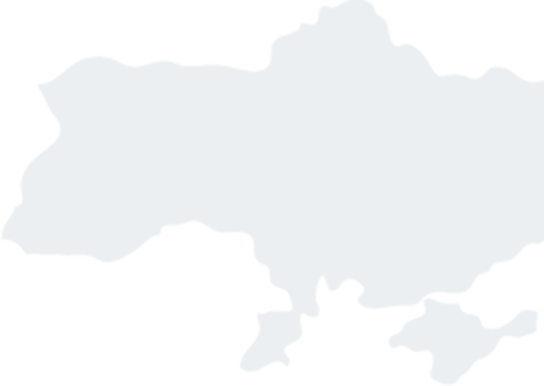
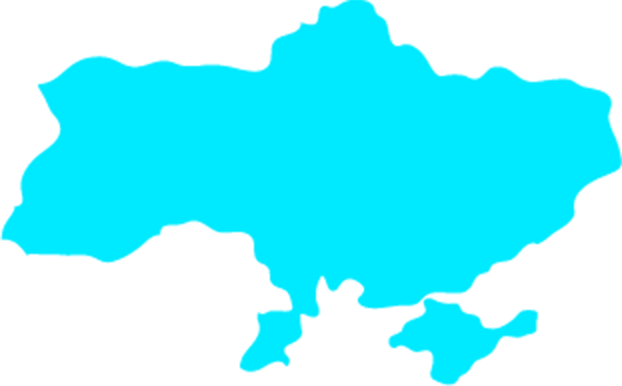
interest section jpg to png changed

diff --git a/build/css/styles.css b/build/css/styles.css
@@ -1,1 +1,1 @@
-/*! normalize.css v8.0.0 | MIT License | github.com/necolas/normalize.css */html{line-height:1.15;-webkit-text-size-adjust:100%}body{margin:0}h1{font-size:2em;margin:.67em 0}hr{box-sizing:content-box;height:0;overflow:visible}pre{font-family:monospace,monospace;font-size:1em}a{background-color:transparent}abbr[title]{border-bottom:none;text-decoration:underline;-webkit-text-decoration:underline dotted;text-decoration:underline dotted}b,strong{font-weight:bolder}code,kbd,samp{font-family:monospace,monospace;font-size:1em}small{font-size:80%}sub,sup{font-size:75%;line-height:0;position:relative;vertical-align:baseline}sub{bottom:-.25em}sup{top:-.5em}img{border-style:none}button,input,optgroup,select,textarea{font-family:inherit;font-size:100%;line-height:1.15;margin:0}button,input{overflow:visible}button,select{text-transform:none}[type=button],[type=reset],[type=submit],button{-webkit-appearance:button}[type=button]::-moz-focus-inner,[type=reset]::-moz-focus-inner,[type=submit]::-moz-focus-inner,button::-moz-focus-inner{border-style:none;padding:0}[type=button]:-moz-focusring,[type=reset]:-moz-focusring,[type=submit]:-moz-focusring,button:-moz-focusring{outline:1px dotted ButtonText}fieldset{padding:.35em .75em .625em}legend{box-sizing:border-box;color:inherit;display:table;max-width:100%;padding:0;white-space:normal}progress{vertical-align:baseline}textarea{overflow:auto}[type=checkbox],[type=radio]{box-sizing:border-box;padding:0}[type=number]::-webkit-inner-spin-button,[type=number]::-webkit-outer-spin-button{height:auto}[type=search]{-webkit-appearance:textfield;outline-offset:-2px}[type=search]::-webkit-search-decoration{-webkit-appearance:none}::-webkit-file-upload-button{-webkit-appearance:button;font:inherit}details{display:block}summary{display:list-item}[hidden],template{display:none}@font-face{font-family:Acrom;font-style:normal;font-weight:300;src:url(../fonts/Acrom-Light.woff) format("woff"),url(../fonts/Acrom-Light.woff2) format("woff2")}@font-face{font-family:Acrom;font-style:normal;font-weight:400;src:url(../fonts/Acrom-Regular.woff) format("woff"),url(../fonts/Acrom-Regular.woff2) format("woff2")}@font-face{font-family:Acrom;font-style:medium;font-weight:500;src:url(../fonts/Acrom-Medium.woff) format("woff"),url(../fonts/Acrom-Medium.woff2) format("woff2")}@font-face{font-family:Acrom;font-style:bold;font-weight:700;src:url(../fonts/Acrom-Bold.woff) format("woff"),url(../fonts/Acrom-Bold.woff2) format("woff2")}@font-face{font-family:Acrom;font-style:bold;font-weight:900;src:url(../fonts/Acrom-ExtraBold.woff) format("woff"),url(../fonts/Acrom-ExtraBold.woff2) format("woff2")}html{box-sizing:border-box}*,:after,:before{box-sizing:inherit}h1,h2,h3,h4,h5,h6{margin:0}ol,ul{list-style:none}a{text-decoration:none}img{display:block;max-width:100%;height:auto}body{font-family:-apple-system,BlinkMacSystemFont,Segoe UI,Roboto,Oxygen,Ubuntu,Cantarell,Open Sans,Helvetica Neue,sans-serif}.container{margin:0 auto;width:260px}.section__title{font-family:Acrom;font-weight:800;font-size:1.25rem;line-height:1.875rem;color:#1b202a;letter-spacing:-1.2px;width:100%}.interest{padding-top:1.875rem;padding-bottom:2.375rem}.interest__title{margin-bottom:1.5rem}.interest__market{display:-webkit-box;display:flex;flex-wrap:wrap;margin-bottom:1.75rem}.market__title{font-family:Acrom;font-weight:800;font-size:.875rem;line-height:1.25rem;color:#1b202a;letter-spacing:-.56px;padding:0;margin:0 0 1.25rem}.market__list{width:100%;margin:0 0 1.25rem;padding:0 17px}.market__list-item{font-weight:500}.market__income,.market__list-item{font-family:Acrom;font-size:.875rem;line-height:1.25rem;color:#1b202a;letter-spacing:-.56px}.market__income{font-weight:800;width:100%;margin:0 0 .625rem}.market__digits{font-family:Acrom;font-weight:700;font-size:1.875rem;line-height:2.25rem;color:#00eaff;letter-spacing:-1.2px;margin-bottom:.313rem;display:block}.market__income-wrapper{padding-left:1.063rem}.income__list{display:-webkit-box;display:flex;-webkit-box-pack:justify;justify-content:space-between;margin:0;padding:0}.income__list-item{font-family:Acrom;font-weight:500;font-size:.625rem;line-height:.688rem;color:#222;letter-spacing:-.4px;width:48%}.income__digits{font-family:Acrom;font-weight:700;font-size:1.563rem;line-height:1.563rem;color:#00eaff;letter-spacing:-1px;display:block;margin-bottom:.313rem}.proposal__title{margin-bottom:.75rem}.proposal__list{margin:0;padding:0}.proposal__list-item{font-family:Acrom;font-weight:500;font-size:.875rem;line-height:1.25rem;color:#1b202a;letter-spacing:-.56px;padding-left:2.25rem;position:relative;width:95%}.proposal__list-item:not(:last-child){margin-bottom:.625rem}.proposal__list-item:before{position:absolute;content:"";width:.75rem;height:.75rem;display:block;background-color:#00eaff;left:0;top:.188rem}@media (min-width:768px){.container{width:748px}.section__title{font-family:Acrom;font-weight:800;font-size:1.875rem;line-height:2.5rem;color:#1b202a;text-align:center}.interest{padding-top:3.5rem}.interest__title{margin-bottom:2.188rem}.market{width:93%;box-shadow:-18px 19px 0 0 rgba(27,32,42,.06),0 15px 32px 0 rgba(0,0,0,.2);margin:0 auto 3rem;background-image:url(../images/interest/map.jpg);background-repeat:no-repeat;background-position:80% 83%;padding:3.25rem 3.125rem 3.375rem 3.563rem}.market__title{font-family:Acrom;font-weight:800;font-size:1.125rem;line-height:1.563rem;color:#1b202a;letter-spacing:-.72px;text-align:center;margin:0 auto 1.875rem;width:65%}.market__list{display:-webkit-box;display:flex;flex-wrap:wrap;-webkit-box-pack:justify;justify-content:space-between;padding:0}.market__list-item{width:30%}.market__list-item:nth-child(-n+3){margin-bottom:1.75rem}.market__income{display:-webkit-box;display:flex;width:100%;padding:0;margin:0 0 .625rem}.market__digits{font-weight:500}.market__income-wrapper{width:41%;padding:0}.income__list{display:-webkit-box;display:flex;-webkit-box-pack:justify;justify-content:space-between}.income__list-item{padding:0;width:46%}.income__digits{font-weight:500}.proposal{width:83%;margin:0 auto}.proposal__title{margin-bottom:1.625rem}.proposal__list{width:65%}.proposal__list-item{font-family:Acrom;font-weight:500;font-size:1rem;line-height:1.375rem;color:#1b202a;letter-spacing:-.64px}}@media (min-width:768px) and (-webkit-min-device-pixel-ratio:2),(min-width:768px) and (min-resolution:2dppx),(min-width:768px) and (min-resolution:192dpi){.market{background-image:url(../images/interest/map@2x.jpg);background-size:45%}}@media (min-width:1200px){.container{width:1170px}.section__title{font-family:Acrom;font-weight:800;font-size:3rem;line-height:3.75rem;color:#1b202a;letter-spacing:-1.92px;text-align:left;padding-left:.938rem;width:40%}.interest{padding-top:5.938rem;padding-bottom:8.75rem}.interest__title{margin-bottom:4.375rem}.interest__wrapper{display:-webkit-box;display:flex;-webkit-box-pack:justify;justify-content:space-between;padding:0 15px}.market{width:60%;margin:0;background-position:81% 82%;display:block}.market__title{margin-bottom:2.375rem;width:67%}.market__list-item:nth-child(-n+3){margin-bottom:0}.proposal{width:35%;margin:0;padding-top:7.5rem}.proposal__title{width:100%;margin-bottom:2rem;padding:0}.proposal__list{width:100%}.proposal__list-item{font-family:Acrom;font-weight:500;font-size:1.125rem;line-height:1.25rem;color:#1b202a;letter-spacing:-.72px}}@media (min-width:1200px) and (-webkit-min-device-pixel-ratio:2),(min-width:1200px) and (min-resolution:2dppx),(min-width:1200px) and (min-resolution:192dpi){.market{background-image:url(../images/interest/map@2x.jpg);background-size:45%}}@media (max-width:767px){.section{background-image:url(../images/interest/map.png);background-repeat:no-repeat;background-position:right 58%}.market__list-item:not(:last-child){margin-bottom:1.25rem}}
+/*! normalize.css v8.0.0 | MIT License | github.com/necolas/normalize.css */html{line-height:1.15;-webkit-text-size-adjust:100%}body{margin:0}h1{font-size:2em;margin:.67em 0}hr{box-sizing:content-box;height:0;overflow:visible}pre{font-family:monospace,monospace;font-size:1em}a{background-color:transparent}abbr[title]{border-bottom:none;text-decoration:underline;-webkit-text-decoration:underline dotted;text-decoration:underline dotted}b,strong{font-weight:bolder}code,kbd,samp{font-family:monospace,monospace;font-size:1em}small{font-size:80%}sub,sup{font-size:75%;line-height:0;position:relative;vertical-align:baseline}sub{bottom:-.25em}sup{top:-.5em}img{border-style:none}button,input,optgroup,select,textarea{font-family:inherit;font-size:100%;line-height:1.15;margin:0}button,input{overflow:visible}button,select{text-transform:none}[type=button],[type=reset],[type=submit],button{-webkit-appearance:button}[type=button]::-moz-focus-inner,[type=reset]::-moz-focus-inner,[type=submit]::-moz-focus-inner,button::-moz-focus-inner{border-style:none;padding:0}[type=button]:-moz-focusring,[type=reset]:-moz-focusring,[type=submit]:-moz-focusring,button:-moz-focusring{outline:1px dotted ButtonText}fieldset{padding:.35em .75em .625em}legend{box-sizing:border-box;color:inherit;display:table;max-width:100%;padding:0;white-space:normal}progress{vertical-align:baseline}textarea{overflow:auto}[type=checkbox],[type=radio]{box-sizing:border-box;padding:0}[type=number]::-webkit-inner-spin-button,[type=number]::-webkit-outer-spin-button{height:auto}[type=search]{-webkit-appearance:textfield;outline-offset:-2px}[type=search]::-webkit-search-decoration{-webkit-appearance:none}::-webkit-file-upload-button{-webkit-appearance:button;font:inherit}details{display:block}summary{display:list-item}[hidden],template{display:none}@font-face{font-family:Acrom;font-style:normal;font-weight:300;src:url(../fonts/Acrom-Light.woff) format("woff"),url(../fonts/Acrom-Light.woff2) format("woff2")}@font-face{font-family:Acrom;font-style:normal;font-weight:400;src:url(../fonts/Acrom-Regular.woff) format("woff"),url(../fonts/Acrom-Regular.woff2) format("woff2")}@font-face{font-family:Acrom;font-style:medium;font-weight:500;src:url(../fonts/Acrom-Medium.woff) format("woff"),url(../fonts/Acrom-Medium.woff2) format("woff2")}@font-face{font-family:Acrom;font-style:bold;font-weight:700;src:url(../fonts/Acrom-Bold.woff) format("woff"),url(../fonts/Acrom-Bold.woff2) format("woff2")}@font-face{font-family:Acrom;font-style:bold;font-weight:900;src:url(../fonts/Acrom-ExtraBold.woff) format("woff"),url(../fonts/Acrom-ExtraBold.woff2) format("woff2")}html{box-sizing:border-box}*,:after,:before{box-sizing:inherit}h1,h2,h3,h4,h5,h6{margin:0}ol,ul{list-style:none}a{text-decoration:none}img{display:block;max-width:100%;height:auto}body{font-family:-apple-system,BlinkMacSystemFont,Segoe UI,Roboto,Oxygen,Ubuntu,Cantarell,Open Sans,Helvetica Neue,sans-serif}.container{margin:0 auto;width:260px}.section__title{font-family:Acrom;font-weight:800;font-size:1.25rem;line-height:1.875rem;color:#1b202a;letter-spacing:-1.2px;width:100%}.interest{padding-top:1.875rem;padding-bottom:2.375rem}.interest__title{margin-bottom:1.5rem}.interest__market{display:-webkit-box;display:flex;flex-wrap:wrap;margin-bottom:1.75rem}.market__title{font-family:Acrom;font-weight:800;font-size:.875rem;line-height:1.25rem;color:#1b202a;letter-spacing:-.56px;padding:0;margin:0 0 1.25rem}.market__list{width:100%;margin:0 0 1.25rem;padding:0 17px}.market__list-item{font-weight:500}.market__income,.market__list-item{font-family:Acrom;font-size:.875rem;line-height:1.25rem;color:#1b202a;letter-spacing:-.56px}.market__income{font-weight:800;width:100%;margin:0 0 .625rem}.market__digits{font-family:Acrom;font-weight:700;font-size:1.875rem;line-height:2.25rem;color:#00eaff;letter-spacing:-1.2px;margin-bottom:.313rem;display:block}.market__income-wrapper{padding-left:1.063rem}.income__list{display:-webkit-box;display:flex;-webkit-box-pack:justify;justify-content:space-between;margin:0;padding:0}.income__list-item{font-family:Acrom;font-weight:500;font-size:.625rem;line-height:.688rem;color:#222;letter-spacing:-.4px;width:48%}.income__digits{font-family:Acrom;font-weight:700;font-size:1.563rem;line-height:1.563rem;color:#00eaff;letter-spacing:-1px;display:block;margin-bottom:.313rem}.proposal__title{margin-bottom:.75rem}.proposal__list{margin:0;padding:0}.proposal__list-item{font-family:Acrom;font-weight:500;font-size:.875rem;line-height:1.25rem;color:#1b202a;letter-spacing:-.56px;padding-left:2.25rem;position:relative;width:95%}.proposal__list-item:not(:last-child){margin-bottom:.625rem}.proposal__list-item:before{position:absolute;content:"";width:.75rem;height:.75rem;display:block;background-color:#00eaff;left:0;top:.188rem}@media (min-width:768px){.container{width:748px}.section__title{font-family:Acrom;font-weight:800;font-size:1.875rem;line-height:2.5rem;color:#1b202a;text-align:center}.interest{padding-top:3.5rem}.interest__title{margin-bottom:2.188rem}.market{width:93%;box-shadow:-18px 19px 0 0 rgba(27,32,42,.06),0 15px 32px 0 rgba(0,0,0,.2);margin:0 auto 3rem;background-image:url(../images/interest/map.png);background-repeat:no-repeat;background-position:80% 83%;padding:3.25rem 3.125rem 3.375rem 3.563rem}.market__title{font-family:Acrom;font-weight:800;font-size:1.125rem;line-height:1.563rem;color:#1b202a;letter-spacing:-.72px;text-align:center;margin:0 auto 1.875rem;width:65%}.market__list{display:-webkit-box;display:flex;flex-wrap:wrap;-webkit-box-pack:justify;justify-content:space-between;padding:0}.market__list-item{width:30%}.market__list-item:nth-child(-n+3){margin-bottom:1.75rem}.market__income{display:-webkit-box;display:flex;width:100%;padding:0;margin:0 0 .625rem}.market__digits{font-weight:500}.market__income-wrapper{width:41%;padding:0}.income__list{display:-webkit-box;display:flex;-webkit-box-pack:justify;justify-content:space-between}.income__list-item{padding:0;width:46%}.income__digits{font-weight:500}.proposal{width:83%;margin:0 auto}.proposal__title{margin-bottom:1.625rem}.proposal__list{width:65%}.proposal__list-item{font-family:Acrom;font-weight:500;font-size:1rem;line-height:1.375rem;color:#1b202a;letter-spacing:-.64px}}@media (min-width:768px) and (-webkit-min-device-pixel-ratio:2),(min-width:768px) and (min-resolution:2dppx),(min-width:768px) and (min-resolution:192dpi){.market{background-image:url(../images/interest/map@2x.png);background-size:45%}}@media (min-width:1200px){.container{width:1170px}.section__title{font-family:Acrom;font-weight:800;font-size:3rem;line-height:3.75rem;color:#1b202a;letter-spacing:-1.92px;text-align:left;padding-left:.938rem;width:40%}.interest{padding-top:5.938rem;padding-bottom:8.75rem}.interest__title{margin-bottom:4.375rem}.interest__wrapper{display:-webkit-box;display:flex;-webkit-box-pack:justify;justify-content:space-between;padding:0 15px}.market{width:60%;margin:0;background-position:81% 82%;display:block}.market__title{margin-bottom:2.375rem;width:67%}.market__list-item:nth-child(-n+3){margin-bottom:0}.proposal{width:35%;margin:0;padding-top:7.5rem}.proposal__title{width:100%;margin-bottom:2rem;padding:0}.proposal__list{width:100%}.proposal__list-item{font-family:Acrom;font-weight:500;font-size:1.125rem;line-height:1.25rem;color:#1b202a;letter-spacing:-.72px}}@media (min-width:1200px) and (-webkit-min-device-pixel-ratio:2),(min-width:1200px) and (min-resolution:2dppx),(min-width:1200px) and (min-resolution:192dpi){.market{background-image:url(../images/interest/map@2x.png);background-size:45%}}@media (max-width:767px){.section{background-image:url(../images/interest/map_mobile.png);background-repeat:no-repeat;background-position:right 58%}.market__list-item:not(:last-child){margin-bottom:1.25rem}}

diff --git a/src/sass/sections/interest.scss b/src/sass/sections/interest.scss
@@ -66,14 +66,14 @@
         padding-top: rem(52);
         padding-bottom: rem(54);
         margin-bottom: rem(48);
-        background-image: url('../images/interest/map.jpg');
+        background-image: url('../images/interest/map.png');
         background-repeat: no-repeat;
         background-position: 80% 83%;
         padding-left: rem(57);
         padding-right: rem(50);
 
         @media (min-resolution: 192dpi), (min-resolution: 2dppx) {
-            background-image: url('../images/interest/map@2x.jpg');
+            background-image: url('../images/interest/map@2x.png');
             background-size: 45%;
         }
     }    
@@ -85,7 +85,7 @@
         display: block;
 
         @media (min-resolution: 192dpi), (min-resolution: 2dppx) {
-            background-image: url('../images/interest/map@2x.jpg');
+            background-image: url('../images/interest/map@2x.png');
             background-size: 45%;
             }
         }
@@ -294,7 +294,7 @@
 
 @media (max-width: 767px) {
     .section {
-        background-image: url('../images/interest/map.png');
+        background-image: url('../images/interest/map_mobile.png');
         background-repeat: no-repeat;
         background-position: right 58%;
     }
